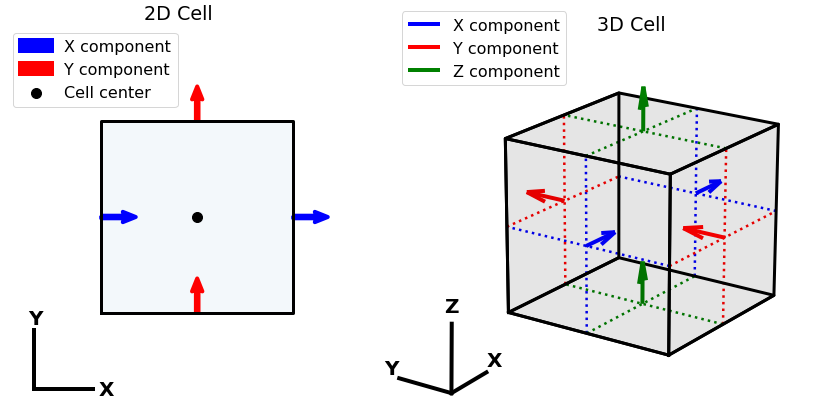
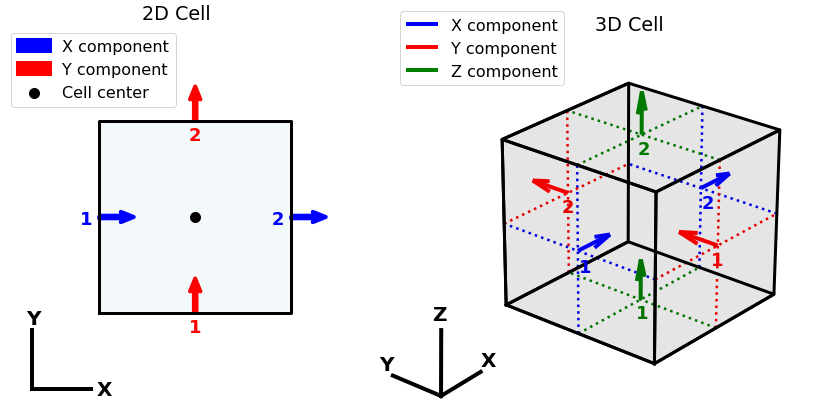
Final draft of basic inner products theory

diff --git a/docs/content/inner_products_basic.rst b/docs/content/inner_products_basic.rst
@@ -8,21 +8,21 @@ Summary
 
 Inner products between two scalar or vector quantities represents the most
 basic class of inner products. For scalar quantities :math:`\psi` and :math:`\phi`,
-we will show how the inner product is approximation by:
+we will show that a disrete approximation to the inner product is given by:
 
 .. math::
-    (\psi , \phi ) = \int_\Omega \psi \, \phi \, dv \approx \mathbf{\psi^T \, M \, \phi}
+    (\psi , \phi ) = \int_\Omega \psi \, \phi \, dv \approx \boldsymbol{\psi^T \, M \, \phi}
     :label: inner_product_basic_scalar
 
-And for vector quantities :math:`\vec{u}` and :math:`\vec{w}`, the
-inner product is approximated by:
+And for vector quantities :math:`\vec{u}` and :math:`\vec{w}`, a discrete approximation
+to the inner product is given by:
 
 .. math::
     (\vec{u}, \vec{w}) = \int_\Omega \vec{u} \cdot \vec{w} \, dv \approx \mathbf{u^T \, M \, w}
     :label: inner_product_basic_vector
 
 where :math:`\mathbf{M}` in either equation represents an
-*inner-product matrix*. :math:`\mathbf{\psi}`, :math:`\mathbf{\phi}`,
+*inner-product matrix*, and :math:`\boldsymbol{\psi}`, :math:`\boldsymbol{\phi}`,
 :math:`\mathbf{u}` and :math:`\mathbf{w}` are discrete variables that live
 on the mesh. It is important to note a few things about the
 inner-product matrix in this case:
@@ -30,38 +30,53 @@ inner-product matrix in this case:
     1. It depends on the dimensions and discretization of the mesh
     2. It depends on where the discrete variables live; e.g. edges, faces, nodes, centers
 
-For this simple class of inner products, the form of the inner product matricies for
+For this simple class of inner products, the corresponding form of the inner product matricies for
 discrete quantities living on various parts of the mesh are shown below:
 
 .. math::
-    \textrm{Centers:} \; \mathbf{M_c} &= \textrm{diag} (\mathbf{v} ) \\
-    \textrm{Nodes:} \; \mathbf{M_n} &= \frac{1}{2^{2k}} \mathbf{P_n^T } \textrm{diag} (\mathbf{v} ) \mathbf{P_n} \\
-    \textrm{Faces:} \; \mathbf{M_f} &= \frac{1}{4} \mathbf{P_f^T } \textrm{diag} (\mathbf{I_k \otimes v} ) \mathbf{P_f} \\
-    \textrm{Edges:} \; \mathbf{M_e} &= \frac{1}{4^{k-1}} \mathbf{P_e^T } \textrm{diag} (\mathbf{I_k \otimes v}) \mathbf{P_e}
+    \textrm{Scalars at centers:} \; \mathbf{M_c} &= \textrm{diag} (\mathbf{v} ) \\
+    \textrm{Scalars at nodes:} \; \mathbf{M_n} &= \frac{1}{2^{2k}} \mathbf{P_n^T } \textrm{diag} (\mathbf{v} ) \mathbf{P_n} \\
+    \textrm{Vectors on faces:} \; \mathbf{M_f} &= \frac{1}{4} \mathbf{P_f^T } \textrm{diag} (\mathbf{I_k \otimes v} ) \mathbf{P_f} \\
+    \textrm{Vectors on edges:} \; \mathbf{M_e} &= \frac{1}{4^{k-1}} \mathbf{P_e^T } \textrm{diag} (\mathbf{I_k \otimes v}) \mathbf{P_e}
 
-where :math:`k = 1,2,3`, :math:`\mathbf{I_k}` is the identity matrix and
-:math:`\otimes` is the kronecker product. :math:`\mathbf{P}` are projection
+where :math:`k = 1,2,3` represents the dimension (1D, 2D or 3D),
+:math:`\mathbf{I_k}` is the identity matrix of dimension :math:`k\times k`,
+and :math:`\otimes` is the kronecker product. :math:`\mathbf{P}` are projection
 matricies that map quantities from one part of the cell (nodes, faces, edges)
-to cell centers.
+to cell centers. The volumes of all cells in the mesh are store in a vector :math:`\mathbf{v}`.
+The term containing :math:`k` is responsible for averaging
+once quantities are mapped to cell centers.
 
 
 Scalars at Cell Centers
 -----------------------
 
 We want to approximate the inner product of two scalar quantities :math:`\psi` and :math:`\phi`
-where the discrete quantities :math:`\mathbf{\psi}` and :math:`\mathbf{\phi}` are defined
+where the discrete quantities :math:`\boldsymbol{\psi}` and :math:`\boldsymbol{\phi}` are defined
 to live at cell centers. Assuming we know the values of :math:`\psi` and :math:`\phi` at cell centers,
-our goal is to construct the inner product matrix :math:`\mathbf{M}` in the expression below: 
+our goal is to construct the inner product matrix :math:`\mathbf{M}` such that: 
 
 .. math::
     (\psi , \phi ) = \int_\Omega \psi \, \phi \, dv \approx \mathbf{\psi^T \, M \, \phi}
 
-A simple approximation for the inner product is obtained by summing the product of
-:math:`\psi` at cell centers, :math:`\phi` at cell centers and the cell volumes (:math:`\mathbf{v}`)
-over all cells:
+
+.. image:: ../images/center_discretization.png
+    :align: center
+    :width: 600
+
+
+For a single cell (see above), the contribution towards the inner product is obtained by multiplying
+:math:`\psi` and :math:`\phi` at the cell centers (represented by :math:`\psi_i and \phi_i`)
+by the cell's volume (:math:`v_i`), i.e.:
 
 .. math::
-     (\psi , \phi ) \approx \sum_i^{nc} \psi_i \phi_i v_i
+    \int_{\Omega_i} \psi \, \phi \, dv \approx \psi_i \phi_i v_i
+
+Therefore a simple approximation to the inner product is obtained by summing the above
+approximation over all cells. Where :math:`nc` refers to the number of cells in the mesh:
+
+.. math::
+     \int_\Omega \psi \, \phi \, dv = \approx \sum_i^{nc} \psi_i \phi_i v_i
 
 Expressing the sum in terms of linear equations, we obtain:
 
@@ -69,7 +84,7 @@ Expressing the sum in terms of linear equations, we obtain:
      (\psi , \phi ) = \int_\Omega \psi \, \phi \, dv  \approx \mathbf{\psi^T \, M_c \, \phi}
 
 where the mass matrix for cell centered quantities is just a diagonal matrix containing
-the cell volumes, i.e.:
+the cell volumes (:math:`\mathbf{v}`), i.e.:
 
 .. math::
     \mathbf{M_c} = diag(\mathbf{v})
@@ -82,40 +97,45 @@ Scalars at Nodes
 ----------------
 
 We want to approximate the inner product of two scalar quantities :math:`\psi` and :math:`\phi`
-where the discrete quantities :math:`\mathbf{\psi}` and :math:`\mathbf{\phi}` are defined
+where the discrete quantities :math:`\boldsymbol{\psi}` and :math:`\boldsymbol{\phi}` are defined
 to live on cell nodes. Assuming we know the values of :math:`\psi` and :math:`\phi` at the nodes,
-our goal is to construct the inner product matrix :math:`\mathbf{M}` in the expression below: 
+our goal is to construct the inner product matrix :math:`\mathbf{M}` such that: 
 
 .. math::
     (\psi , \phi ) = \int_\Omega \psi \, \phi \, dv \approx \mathbf{\psi^T \, M \, \phi}
     :label: inner_product_basic_nodes
 
-Whereas :math:`\mathbf{\psi}` and :math:`\mathbf{\phi}` are defined
-to live on cell nodes, it makes more sense for the cell volumes to be defined to live
-at cell centers. This makes evaluating the inner product more complicated as
+Whereas :math:`\boldsymbol{\psi}` and :math:`\boldsymbol{\phi}` are defined
+to live on cell nodes, it makes more sense for cell volumes to be considered a property
+which lives at cell centers. This makes evaluating the inner product more complicated as
 discrete quantities do not live at the same place.
 
-For each cell, the contribution towards the inner product is approximated by
-taking the average of the quantity defined at each nodes and multiplying it
-by the cell volume, i.e.:
+.. image:: ../images/node_discretization.png
+    :align: center
+    :width: 600
 
-.. math::
-     (\psi , \phi ) \approx \sum_i^{nc} \tilde{\psi}_i \tilde{\phi}_i v_i
-     :label: inner_product_basic_nodes_sum
-
-where :math:`\tilde{\psi}_i` and :math:`\tilde{\phi}_i` are just the average value of the quantities
-at the nodes of the cell. Where each cell has *N=4* nodes for 2D problems and each cell has *N=8* nodes for
-3D problems:
+For a single cell :math:`i`, the contribution towards the inner product is approximated by
+mapping the values at the nodes to cell centers, taking the average, then multiplying
+by the cell volume. For 2D cells there are 4 nodes. And for 3D cells there are 8 nodes
+Thus:
 
 .. math::
     \begin{align}
-    \tilde{\psi}_i = \frac{1}{N} \sum_k^N \tilde{\psi}_i^{(k)} \\
-    \tilde{\phi}_i = \frac{1}{N} \sum_k^N \tilde{\phi}_i^{(k)}
+    \mathbf{In \; 2D:} \; \int_{\Omega_i} \psi \, \phi \, dv \approx & \;\;
+    \frac{v_i}{16} \Bigg ( \psi_i^{(1)} \! + \psi_i^{(2)} \! + \psi_i^{(3)} \! + \psi_i^{(4)} \Bigg )
+    \Bigg ( \phi_i^{(n1)} \! + \phi_i^{(n2)} \! + \phi_i^{(n3)} \! + \phi_i^{(n4)} \Bigg ) \\
+    & \\
+    \mathbf{In \; 3D:} \; \int_{\Omega_i} \psi \, \phi \, dv \approx & \;\; 
+    \frac{v_i}{16} \Bigg ( \sum_{n=1}^8 \psi_i^{(n)} \Bigg ) \Bigg ( \sum_{n=1}^8 \psi_i^{(n)} \Bigg )
     \end{align}
+    :label: inner_product_basic_nodes_1
 
-We want to express the sum in equation :eq:`inner_product_basic_nodes_sum` in the form described by
+where the superscript :math:`(n)` is used to point to a specific node.
+Using the contribution for each cell described in expression :eq:`inner_product_basic_nodes_1`,
+we want to approximate the inner product in the form described by
 equation :eq:`inner_product_basic_nodes`. To accomlish this, we construct a sparse matrix
-:math:`\mathbf{P_n}` which projects quantities at the nodes to their corresponding cell centers.
+:math:`\mathbf{P_n}` which projects quantities on the nodes to the
+the cell centers.
 
 Our final approximation for the inner product is therefore:
 
@@ -128,7 +148,8 @@ where the mass matrix for nodal quantities has the form:
     \mathbf{M_n} = \frac{1}{2^{2k}} \mathbf{P_n^T } \textrm{diag} (\mathbf{v} ) \mathbf{P_n}
 
 and :math:`k=1,2,3` refers to the dimension (1D, 2D or 3D). The term containing :math:`k` is responsible for
-averaging once nodal values have been projected to cell centers.
+averaging once nodal values have been projected to cell centers. The cell volumes are stored in
+a vector :math:`\mathbf{v}`.
 
 .. note:: To see a validation of the discrete approximation, see our tutorials section (link)
 
@@ -154,7 +175,7 @@ lives on the z-faces. For a single cell, this is illustrated in 2D and 3D below.
 
 .. image:: ../images/face_discretization.png
     :align: center
-    :width: 500
+    :width: 600
 
 
 As we can see there are 2 faces for each component. Therefore, we need to project each component of the
@@ -163,16 +184,16 @@ the contribution towards the inner product is:
 
 .. math::
     \begin{align}
-    \mathbf{In \; 2D:} \; \int_{\Omega_i} \vec{u} \cdot \vec{w} \, dv \approx & \;\; \frac{v_i}{4} \Big ( u_x^{(f1)} + u_x^{(f2)} \Big ) \Big ( w_x^{(f1)} + w_x^{(f2)} \Big ) \\
-    & + \frac{v_i}{4} \Big ( u_y^{(f1)} + u_y^{(f2)} \Big ) \Big ( w_y^{(f1)} + w_y^{(f2)} \Big ) \\
+    \mathbf{In \; 2D:} \; \int_{\Omega_i} \vec{u} \cdot \vec{w} \, dv \approx & \;\; \frac{v_i}{4} \Big ( u_x^{(1)} + u_x^{(2)} \Big ) \Big ( w_x^{(1)} + w_x^{(2)} \Big ) \\
+    & + \frac{v_i}{4} \Big ( u_y^{(1)} + u_y^{(2)} \Big ) \Big ( w_y^{(1)} + w_y^{(2)} \Big ) \\
     & \\
-    \mathbf{In \; 3D:} \; \int_{\Omega_i} \vec{u} \cdot \vec{w} \, dv \approx & \;\; \frac{v_i}{4} \Big ( u_x^{(f1)} + u_x^{(f2)} \Big ) \Big ( w_x^{(f1)} + w_x^{(f2)} \Big ) \\
-    & + \frac{v_i}{4} \Big ( u_y^{(f1)} + u_y^{(f2)} \Big ) \Big ( w_y^{(f1)} + w_y^{(f2)} \Big ) \\
-    & + \frac{v_i}{4} \Big ( u_z^{(f1)} + u_z^{(f2)} \Big ) \Big ( w_z^{(f1)} + w_z^{(f2)} \Big )
+    \mathbf{In \; 3D:} \; \int_{\Omega_i} \vec{u} \cdot \vec{w} \, dv \approx & \;\; \frac{v_i}{4} \Big ( u_x^{(1)} + u_x^{(2)} \Big ) \Big ( w_x^{(1)} + w_x^{(2)} \Big ) \\
+    & + \frac{v_i}{4} \Big ( u_y^{(1)} + u_y^{(2)} \Big ) \Big ( w_y^{(1)} + w_y^{(2)} \Big ) \\
+    & + \frac{v_i}{4} \Big ( u_z^{(1)} + u_z^{(2)} \Big ) \Big ( w_z^{(1)} + w_z^{(2)} \Big )
     \end{align}
     :label: inner_product_basic_faces_1
 
-where superscripts :math:`(f1)` and :math:`(f2)` denote face 1 and face 2, respectively.
+where superscripts :math:`(1)` and :math:`(2)` denote face 1 and face 2, respectively.
 Using the contribution for each cell described in expression :eq:`inner_product_basic_faces_1`,
 we want to approximate the inner product in the form described by
 equation :eq:`inner_product_basic_faces`. To accomlish this, we construct a sparse matrix
@@ -198,7 +219,8 @@ where the mass matrix for face quantities has the form:
     \mathbf{M_f} = \frac{1}{4} \mathbf{P_f^T } \textrm{diag} (\mathbf{I_k \otimes v} ) \mathbf{P_f}
 
 and :math:`k=1,2,3` refers to the dimension (1D, 2D or 3D). :math:`\mathbf{I_k}` is the identity matrix and
-:math:`\otimes` is the kronecker product.
+:math:`\otimes` is the kronecker product. Cell volumes are store in a vector :math:`\mathbf{v}`. The term containing :math:`k` is responsible for
+averaging once values have been projected to cell centers
 
 .. note:: To see a validation of the discrete approximation, see our tutorials section (link)
 
@@ -224,7 +246,7 @@ lives on the z-edges. This is illustrated in 2D and 3D below.
 
 .. image:: ../images/edge_discretization.png
     :align: center
-    :width: 500
+    :width: 600
 
 
 As we can see there are 2 edges for each component in 2D and 4 edges for each component in 3D.
@@ -234,16 +256,16 @@ the contribution towards the inner product is:
 
 .. math::
     \begin{align}
-    \mathbf{In \; 2D:} \; \int_{\Omega_i} \vec{u} \cdot \vec{w} \, dv \approx & \;\; \frac{v_i}{4} \Big ( u_x^{(e1)} + u_x^{(e2)} \Big ) \Big ( w_x^{(e1)} + w_x^{(e2)} \Big ) \\
-    & + \frac{v_i}{4} \Big ( u_y^{(e1)} + u_y^{(e2)} \Big ) \Big ( w_y^{(e1)} + w_y^{(e2)} \Big ) \\
+    \mathbf{In \; 2D:} \; \int_{\Omega_i} \vec{u} \cdot \vec{w} \, dv \approx & \;\; \frac{v_i}{4} \Big ( u_x^{(1)} + u_x^{(2)} \Big ) \Big ( w_x^{(1)} + w_x^{(2)} \Big ) \\
+    & + \frac{v_i}{4} \Big ( u_y^{(1)} + u_y^{(2)} \Big ) \Big ( w_y^{(1)} + w_y^{(2)} \Big ) \\
     & \\
-    \mathbf{In \; 3D:} \; \int_{\Omega_i} \vec{u} \cdot \vec{w} \, dv \approx & \;\; \frac{v_i}{16} \Bigg ( \sum_{ei=1}^4 u_x^{(ei)} \Bigg ) \Bigg ( \sum_{ei=1}^4 w_x^{(ei)} \Bigg ) \\
-    & + \frac{v_i}{16} \Bigg ( \sum_{ei=1}^4 u_y^{(ei)} \Bigg ) \Bigg ( \sum_{ei=1}^4 w_y^{(ei)} \Bigg ) \\
-    & + \frac{v_i}{16} \Bigg ( \sum_{ei=1}^4 u_z^{(ei)} \Bigg ) \Bigg ( \sum_{ei=1}^4 w_z^{(ei)} \Bigg )
+    \mathbf{In \; 3D:} \; \int_{\Omega_i} \vec{u} \cdot \vec{w} \, dv \approx & \;\; \frac{v_i}{16} \Bigg ( \sum_{n=1}^4 u_x^{(n)} \Bigg ) \Bigg ( \sum_{n=1}^4 w_x^{(n)} \Bigg ) \\
+    & + \frac{v_i}{16} \Bigg ( \sum_{n=1}^4 u_y^{(n)} \Bigg ) \Bigg ( \sum_{n=1}^4 w_y^{(n)} \Bigg ) \\
+    & + \frac{v_i}{16} \Bigg ( \sum_{n=1}^4 u_z^{(n)} \Bigg ) \Bigg ( \sum_{n=1}^4 w_z^{(n)} \Bigg )
     \end{align}
     :label: inner_product_basic_edges_1
 
-where superscripts :math:`(e1)` and :math:`(e2)` denote eges 1 and edges 2, respectively.
+where the superscript :math:`(n)` denotes a particular edge.
 Using the contribution for each cell described in expression :eq:`inner_product_basic_edges_1`,
 we want to approximate the inner product in the form described by
 equation :eq:`inner_product_basic_edges`. To accomlish this, we construct a sparse matrix
@@ -269,7 +291,9 @@ where the mass matrix for face quantities has the form:
     \mathbf{M_e} = \frac{1}{4^{k-1}} \mathbf{P_e^T } \textrm{diag} (\mathbf{I_k \otimes v}) \mathbf{P_e}
 
 and :math:`k=1,2,3` refers to the dimension (1D, 2D or 3D). :math:`\mathbf{I_k}` is the identity matrix and
-:math:`\otimes` is the kronecker product.
+:math:`\otimes` is the kronecker product. Cell volumes are store in a vector :math:`\mathbf{v}`.
+The term containing :math:`k` is responsible for
+averaging once values have been projected to cell centers
 
 .. note:: To see a validation of the discrete approximation, see our tutorials section (link)
 
